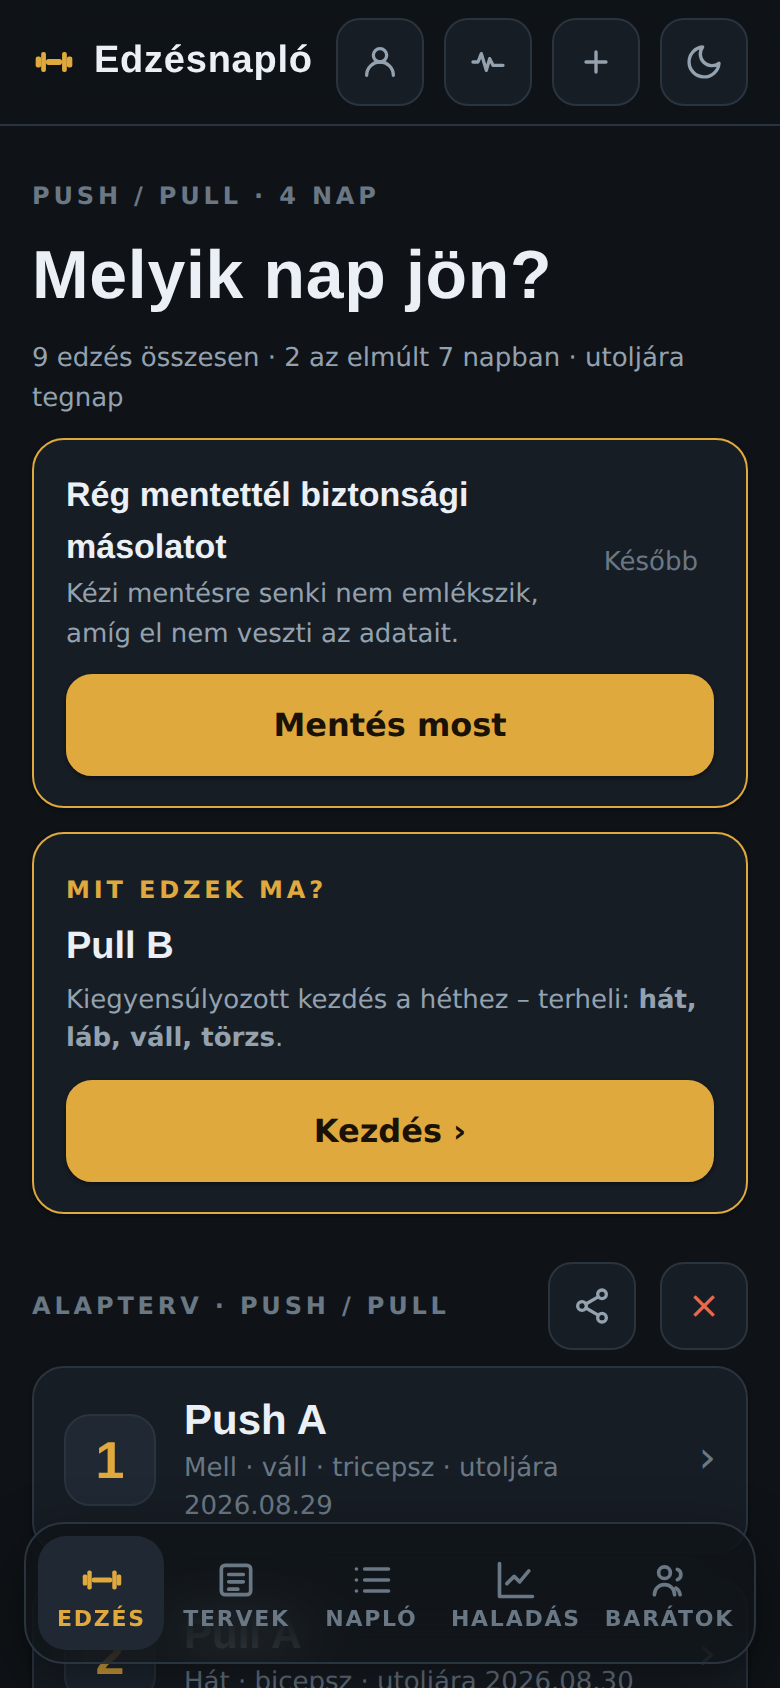
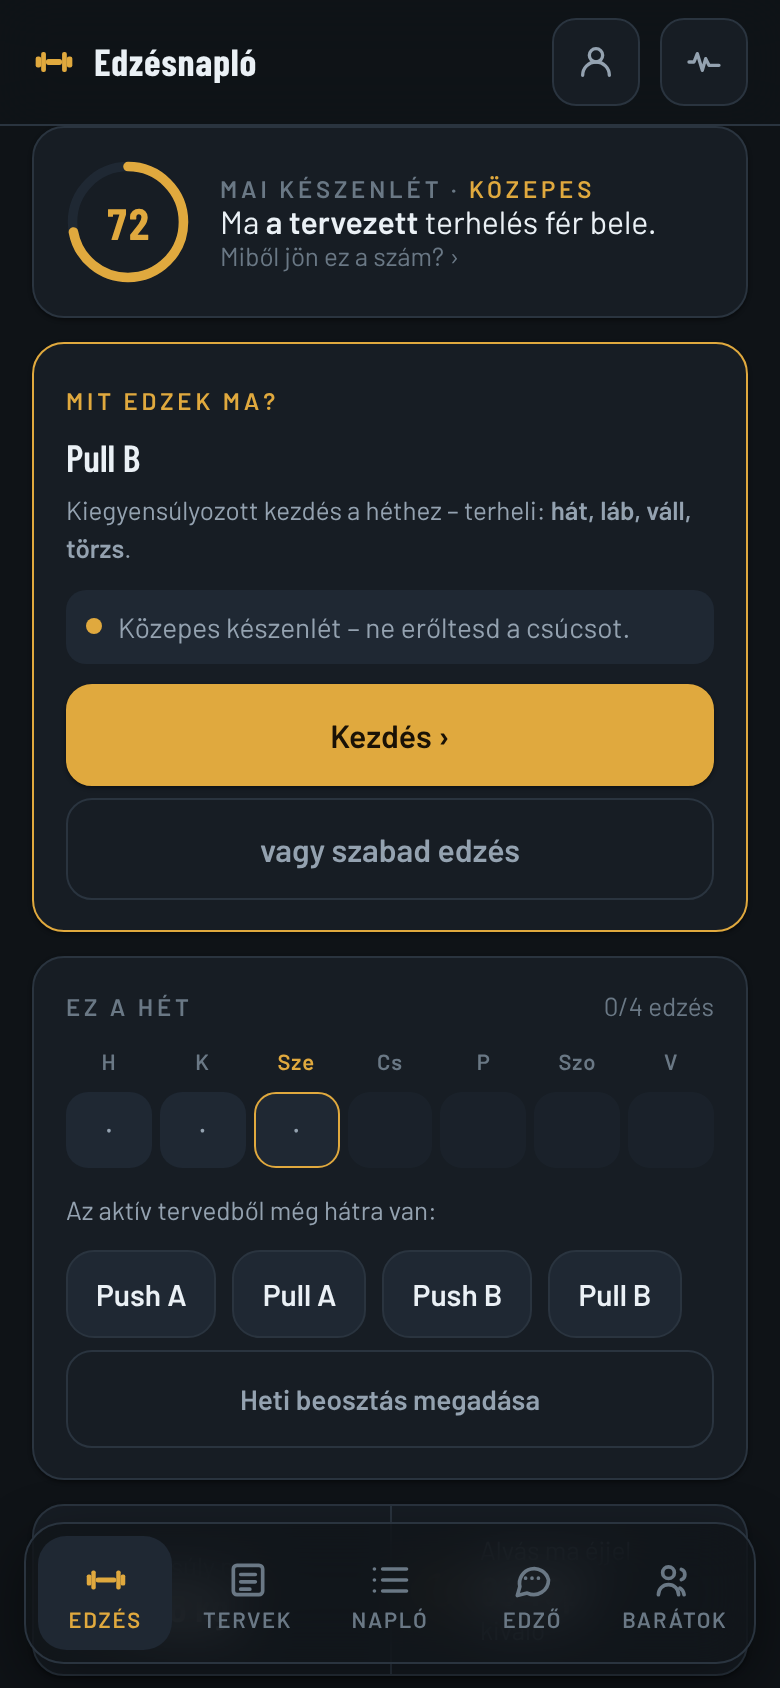
README és bemutató frissítése a mai felülethez, új képernyőképek (v154)
Claude-Session: https://claude.ai/code/session_01UnPYUTzeHHVexxSzwsizpS

diff --git a/js/account.js b/js/account.js
@@ -482,11 +482,12 @@ function openWelcome(){
     <div class="top" style="padding:6px 0 0"><span class="eyebrow" style="color:var(--brass)">Üdv</span>
       <h2 style="font-size:26px;margin-top:2px">Edzésnapló</h2>
       <p class="small mut" style="margin:6px 0 0">Egykezes edzésnapló teremhez. A számok a főszereplők – a szett-rögzítés két koppintás.</p></div>`;
-  h+=row(ICON.dumbbell,'Edzés','Koppints egy napra (Push/Pull) a főoldalon – indul a vezetett edzés pihenőórával, súlyállítóval. A végén összegzőt kapsz időtartammal és izomtérképpel.');
-  h+=row(ICON.plans,'Tervek','Állíts össze saját edzést vagy tervet, vagy válassz kész sablont. Két gyakorlatot superset-körré is köthetsz.');
-  h+=row(ICON.chart,'Haladás','Statok, grafikonok, becsült 1RM, és heti izomtérkép, ami jelzi a héten kimaradt izomcsoportokat.');
-  h+=row(ICON.list,'Napló','Minden edzés visszanézhető; heti összefoglaló küldhető egy AI-edzőnek.');
-  h+=row(ICON.account,'Fiók / szinkron','Opcionális felhő-fiók: több eszköz közt biztonságosan összefésül. Nélküle minden a böngésződben marad.');
+  h+=row(ICON.check,'Kezdőlap','Felül a készenléted, alatta EGY ajánlás: „Mit edzek ma?" – egy koppintás a Kezdés. A napi testsúly és alvás is itt rögzíthető.');
+  h+=row(ICON.dumbbell,'Edzés közben','A soron következő szett egy nagy gomb: rá, majd az ismétlésszámra – kész. Az RPE nem kötelező, utólag is megadható. Dropset, „+ szett" és kézi súly is van.');
+  h+=row(ICON.plans,'Tervek','Kész sablon, saját edzés vagy több napos terv. Gyakorlatonként szett, ismétlés, pihenő; láncikonnal szuperszett.');
+  h+=row(ICON.coach,'Edző','Kérdezd az AI-edzőt, kérj tőle tervet, vagy küldd el a heti összefoglalót.');
+  h+=row(ICON.list,'Napló és haladás','Minden edzés visszanézhető és javítható, a törölt 3 napig a Kukában van. A haladás a becsült 1RM-et és a trendeket mutatja.');
+  h+=row(ICON.account,'Fiók (nem kötelező)','Több eszköz közt összefésül, barátokkal megoszthatsz. Nélküle minden a telefonodon marad.');
   h+=`<button class="btn pri" style="margin-top:18px" onclick="dismissWelcome()">Kezdjük</button>`;
   document.getElementById('sheetIn').innerHTML=h;
   openSheet();

diff --git a/js/state.js b/js/state.js
@@ -70,7 +70,7 @@ function logRdyBadge(t){
 }
 let physioRegion='';  // Gyógytorna oldal aktív testtáj (üres = első)
 let editing=false, draft=null;   // edzés-összeállító
-const APP_VERSION='v153';         // látható build-jelző (a sw.js VERSION-jével együtt emeld)
+const APP_VERSION='v154';         // látható build-jelző (a sw.js VERSION-jével együtt emeld)
 
 const KEY='gymlog_v1';
 let storeMode='none';

diff --git a/sw.js b/sw.js
@@ -3,7 +3,7 @@
  * azt a böngésző kezeli – a service worker csak a statikus fájlokat
  * cache-eli, az éles edzésadatot nem érinti.
  */
-const VERSION = 'v153';
+const VERSION = 'v154';
 const APP_CACHE = 'edzesnaplo-app-' + VERSION;
 const FONT_CACHE = 'edzesnaplo-fonts';
 

diff --git a/README.md b/README.md
@@ -5,9 +5,9 @@ izzadt ujjal is kényelmesen használható. A hangsúly a gyorsaságon van: a
 szett-rögzítés két koppintás, minden gomb nagy, a súly és az ismétlés
 nagy, jól olvasható számokkal jelenik meg.
 
-A teljes alkalmazás **egyetlen HTML-fájl**, build és futásidejű függőség
-nélkül. Telepíthető PWA, offline is működik, és opcionálisan felhő-fiókkal
-több eszköz közt szinkronizál.
+Build és futásidejű függőség nélküli statikus webapp (`index.html` + `js/`).
+Telepíthető PWA, offline is működik, és opcionálisan felhő-fiókkal több
+eszköz közt szinkronizál.
 
 **Élő verzió:** https://albi012.github.io/spartaiak/
 
@@ -15,9 +15,9 @@ több eszköz közt szinkronizál.
 
 <table>
   <tr>
-    <td align="center" width="33%"><img src="docs/screenshots/home.png" width="240" alt="Főképernyő"><br><sub>Főképernyő – „Mit edzek ma?"</sub></td>
-    <td align="center" width="33%"><img src="docs/screenshots/player.png" width="240" alt="Vezetett edzés"><br><sub>Vezetett edzés</sub></td>
-    <td align="center" width="33%"><img src="docs/screenshots/muscle-map.png" width="240" alt="Izomtérkép"><br><sub>Izomtérkép az összegzőben</sub></td>
+    <td align="center" width="33%"><img src="docs/screenshots/home.png" width="240" alt="Főképernyő"><br><sub>Kezdőlap – készenlét és „Mit edzek ma?"</sub></td>
+    <td align="center" width="33%"><img src="docs/screenshots/player.png" width="240" alt="Vezetett edzés"><br><sub>Edzés közben – RPE-vel rögzített szett</sub></td>
+    <td align="center" width="33%"><img src="docs/screenshots/muscle-map.png" width="240" alt="Izomtérkép"><br><sub>Összegző izomtérképpel</sub></td>
   </tr>
 </table>
 
@@ -25,74 +25,59 @@ több eszköz közt szinkronizál.
 
 ## Mit tud
 
-**Edzés és naplózás**
-- Vezetett lejátszó: a kezdőképernyő a mai edzést kínálja, pihenőórával és
-  súlyállítóval; a szettek két koppintással rögzülnek.
-- Egy megkezdett edzés minden rögzített szettje azonnal mentődik – ha
-  véletlen bezárul az app, újranyitva a „Folytatás" kártyáról ott lehet
-  folytatni, ahol abbamaradt.
-- Superset / kör: saját edzésben gyakorlatok összeköthetők – a tagok közt
-  rövid váltás, a teljes pihenő a kör végén.
-- Idő-alapú gyakorlatnál (plank stb.) beépített visszaszámláló óra, ami a
-  végén rögzíti a tartott másodperceket.
-- A pihenő a képernyőt ébren tartja; opcionálisan a hátralévő idő rendszer-
-  értesítésben is látszik, ha közben kiváltasz az appból.
-- Befejezés-összegző: időtartam, gyakorlat- és szettszám, összterhelés,
-  új csúcsok (PR), és egy elöl+hátul izomtérkép a terhelt izmokkal.
-- Napló: minden edzés visszanézhető (dátum, időtartam, szettek,
-  összterhelés), hónapokra bontva, lenyitható izomtérképpel.
+**Kezdőlap**
+- **Készenlét-pontszám** (0–100): az alvásból, a heti terhelésből és a
+  testsúly-trendből számolva – csak a ténylegesen rögzített adatból, nem tippel.
+- **„Mit edzek ma?"** – egy ajánlás egy „Kezdés" gombbal, a heti beosztás
+  vagy a héten kimaradt izomcsoportok alapján; mellette szabad edzés.
+- Heti nézet (hétfőtől), opcionális nap → hétköznap beosztással.
+- Napi testsúly és alvás egy kártyán, trend-grafikonnal.
 
-**Saját tervek**
-- Beépített 4 napos terv (Push A / Pull A / Push B / Pull B).
-- Saját gyakorlatok, saját edzések és több napból álló edzéstervek
-  összeállíthatók az appon belül; kész sablonok is választhatók.
-- Beépített gyakorlat-könyvtár (~160 gyakorlat), izomcsoportra szűrhető
-  választóval.
-- Bemelegítő-szett javaslat: a munkasúlyból automatikus lépcsők +
-  oldalankénti tárcsakiosztás.
-- Gyakorlatonkénti „Technika videó" link (külső fülön nyílik).
+**Edzés közben**
+- Vezetett lejátszó: a soron következő szett egy nagy gomb, a rögzítés két
+  koppintás. A fejlécben az edzés eltelt ideje, az „Előző" sor mellett a
+  súly-különbség a múltkorihoz képest.
+- **RPE** (érzékelt nehézség) opcionálisan – a szám előtt vagy utólag, egy
+  koppintással. **Dropset** a fő szett után, menet közbeni „+ szett",
+  kézi súlybevitel, „+ Gyakorlat" bármely edzésbe.
+- Pihenő-gyűrű a gyakorlat neve mellett (nem takar el semmit), ébren tartott
+  képernyő, opcionális rendszer-értesítés.
+- Superset / kör, idő-alapú gyakorlatnál visszaszámláló óra, tárcsa-kalkulátor.
+- Minden rögzített szett azonnal mentődik – bezárás után „Folytatás".
+- Befejezés-összegző: időtartam, összterhelés, új csúcsok, izomtérkép, és a
+  holnapi készenlét előrejelzése.
 
-**Haladás**
-- Összegző számok: összes edzés, e havi, hetes sorozat, össztömeg; szint /
-  XP (streak-fókuszú).
-- Edzésnaptár-heatmap az utolsó 16 hétről; havi aktivitás; a legtöbbet
-  fejlődő gyakorlatok.
-- Heti **izomtérkép**: elöl+hátul figura, a terhelt izmok folytonos
-  hőskálával színezve, és a héten kimaradt izomcsoportok kiemelése.
-- Gyakorlatonkénti trend nagy grafikonnal, teljes előzménnyel és a
-  csúccsal (PR); váltható munkasúly / térfogat / becsült 1RM között.
+**Tervek**
+- Beépített 4 napos terv (Push A / Pull A / Push B / Pull B), kész sablonok,
+  saját gyakorlatok, edzések és több napból álló tervek.
+- Gyakorlatonként szett × ismétlés × pihenő × kezdősúly edzésenként.
+- Beépített gyakorlat-könyvtár (~160 gyakorlat) technika-animációval és
+  videó-linkkel.
+- Választható progressziós szabály gyakorlatonként (okos / lineáris /
+  greyskull / dupla / fix).
 
-**Edző-funkciók**
-- Okos súlyjavaslat: a túlteljesítés arányában nagyobbat lép; hosszabb
-  kihagyás után visszaépítést ajánl. Választható progressziós szabályok.
-- „Mit edzek ma?": a heti izomtérkép hiányait lefedő edzésnapot ajánlja.
-- Sérülés-mód: az érintett testtájak gyakorlatai kimaradnak, a többi súlya
-  csökken.
-- Kétszintű jegyzet (állandó gyakorlat-jegyzet + aznapi) és
-  gépbeállítás-fotó gyakorlatonként.
-- Tárcsa-kalkulátor: edzés közben a súlyra koppintva megmutatja, mennyi
-  tárcsát kell felrakni oldalanként.
-- Heti összefoglaló: az elmúlt hét edzéseit olvasható szöveggé alakítja,
-  amit el lehet küldeni egy (AI-)edzőnek.
+**Edző AI**
+- Beépített csevegés és heti értékelés (szerveroldali Claude-hívás, heti
+  kérdéslimittel), vagy saját/külső AI-hoz másolható anyag.
+- **AI-terv importálása**: a személyre szabott promptra kapott tervet három
+  lépésben, szerkeszthető előnézettel alakítja saját tervvé.
+- Heti összefoglaló edzőnek: szettek, RPE, jegyzetek, alvás és testsúly,
+  választható időszakra.
 
-**Gyógytorna / mobilitás**
-- Külön oldal (a felső sáv állandó ikonjáról): testtájankénti
-  mobilitás-, nyújtó- és stabilizáló gyakorlatok technikai emlékeztetővel
-  és videó-linkkel – *referencia, nem orvosi tanács*.
-- Testtájankénti **5 perces vezetett rutin** egy koppintással (a tartásokat
-  óra méri); ez nem naplózódik, nem befolyásolja a statokat.
+**Napló és Haladás**
+- Hetekre bontott, lenyitható edzés-kártyák; pihenőnapok összevonva.
+  Utólagos javítás (súly, szett, RPE, dropset), és **Kuka**: a törölt edzés
+  3 napig visszahozható.
+- Haladás: becsült 1RM-fejlődés (RPE-tudatosan), munkasúly-trendek, heti
+  izomtérkép, stagnálás-felismerés, készenlét- és testsúly-trend, edzésnaptár.
 
-**Fiók, szinkron és barátok** *(opcionális)*
-- E-mail + jelszavas **regisztráció és belépés** – pár másodperc, a fiók
-  ott helyben, az appban létrehozható. Fiók nélkül is minden működik, csak
-  lokálisan.
-- Belépve a felhő nem felülír, hanem **összefésül** a helyi naplóval, így
-  két eszköz közt egyetlen rögzített edzés sem vész el.
-- Barát-kóddal barátjelölés, megosztott statok és edzéstervek.
-
-**Megjelenés**
-- Világos/sötét téma (rendszerkövetéssel és kézi váltóval); a sötét az
-  alapértelmezett, teremben kényelmesebb.
+**Egyéb**
+- Gyógytorna / mobilitás: testtájankénti 5 perces vezetett rutin
+  (*referencia, nem orvosi tanács*). Sérülés-mód.
+- Jegyzetek (állandó + aznapi, gyakorlathoz kötve) és gépbeállítás-fotó.
+- Opcionális fiók (e-mail vagy Google): veszteségmentes szinkron, barátok
+  barát-kóddal, terv-küldés, appon belüli fióktörlés.
+- Világos / sötét téma, magyar / angol felület.
 
 ---
 
@@ -122,8 +107,8 @@ oldal.
 - Az edzésadat a **böngésződben** marad (`localStorage`); az app
   alapból semmit nem küld el sehová.
 - Nincs benne követés, reklám vagy analitika.
-- A Napló fülről egy koppintással exportálható és visszaállítható az egész
-  napló JSON-ként.
+- A Profil → „Adataim" kártyáról egy koppintással exportálható és
+  visszaállítható az egész napló JSON-ként.
 - A felhő-szinkron opcionális: csak akkor lép működésbe, ha beállítasz egy
   saját [Supabase](https://supabase.com) projektet és bejelentkezel. Az
   adatot ekkor is veszteségmentesen fésüli össze, és a törlés egy másik
@@ -133,13 +118,15 @@ oldal.
 
 ## Hogyan épül fel
 
-- Vanilla JavaScript, keretrendszer nélkül; az egész UI és logika az
-  `index.html`-ben.
+- Vanilla JavaScript, keretrendszer nélkül: az `index.html` a váz és a CSS,
+  a kód a `js/` alatti klasszikus scriptekben (nincs bundler).
 - PWA: `manifest.webmanifest` + `sw.js` service worker az offline
   működéshez; ikonok a kezdőképernyőhöz.
 - Opcionális felhő-réteg: `js/auth.js` + Supabase (Auth + Postgres az
   `supabase/` alatti sémákkal). Konfiguráció nélkül az app tisztán
   lokálisan fut.
+- Edző AI: Supabase Edge Function (`supabase/functions/coach`), a Claude
+  API-kulcs csak szerveroldalon van. Telepítés: `docs/coach-ai.md`.
 - Deploy: GitHub Pages (a `main` minden pushnál automatikusan publikál a
   `.github/workflows/pages.yml` révén). A repóban lévő `netlify.toml`
   alternatív Netlify-deployt is lehetővé tesz.

diff --git a/CLAUDE.md b/CLAUDE.md
@@ -1290,7 +1290,7 @@ kijelentkezés megerősítéssel (`confirmSignOut`); belépésnél Google (`doOA
 **Onboarding-jelző:** külön `gymlog_onboarded` kulcs (`'1'` = látta a
 bemutatót). Szintén FÜGGETLEN a `gymlog_v1`-től. Az `openWelcome` első
 indításkor jön (üres napló + nincs jelző); a fiók-lapról bármikor
-újranyitható.
+újranyitható. A bemutató (v154) a mai felületet írja le: Kezdőlap (készenlét + EGY ajánlás), edzés közben (nagy szett-gomb, opcionális/utólagos RPE, dropset), Tervek, Edző, Napló és haladás (Kuka), opcionális fiók. Ha egy fő képernyő megváltozik, ezt is frissítsd.
 
 **Beállítás-kulcsok** (mind FÜGGETLEN a `gymlog_v1`-től): `gymlog_lang`
 (`hu` | `en`, lásd „Nyelv"), `gymlog_mute`
